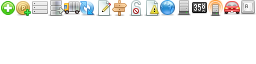
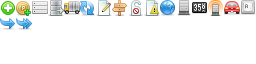
Finished viewing and replying in Message Center.

Changed region(s): [[0.0, 0.2812, 0.125, 0.4688]]

diff --git a/core/admin/css/main.css b/core/admin/css/main.css
@@ -46,6 +46,7 @@
 	h1 .error { background-position: -345px 0px; width: 28px; }
 	h1 .messages { background-position: -483px 0px; width: 26px; }
 	h1 .add_message { background-position: 0px -31px; width: 27px; }
+	h1 .reply_message { background-position: -54px -31px; width: 28px; }
 
 	h2 { color: #444; float: left; font-size: 18px; height: 32px; line-height: 32px; text-shadow: 1px 1px 1px #FFF; font-weight: normal; padding: 5px 0 0 0; }
 	h2 small { font-size: 13px; color: #999999; display: inline-block; padding: 0 0 0 10px; }
@@ -359,7 +360,7 @@
 
 /* Table Styles */
 	div.table { border: 1px solid #CCC; border-radius: 5px; box-shadow: 0px 0px 3px #CCC; margin: 0 0 25px 0; overflow: hidden; }
-	.table > summary { background: url(../images/top-gradient.png) repeat-x; border-radius: 5px 5px 0 0; height: 37px; line-height: 37px; padding: 0 20px; }
+	.table > summary, .form_container > summary { background: url(../images/top-gradient.png) repeat-x; border-radius: 5px 5px 0 0; height: 37px; line-height: 37px; padding: 0 20px; }
 	.table > summary input { float: left; margin: 5px 25px 0 -10px; }
 	.table > summary p { color: #666; font-size: 12px; line-height: 37px; text-shadow: 1px 1px 1px #FFF; }
 	.table > summary.taller { height: 45px; line-height: 45px; }
@@ -539,6 +540,12 @@
 	.image_list li a.image:hover { background: #DDD; }
 	.image_list li a.image img { max-width: 108px; }
 	.image_list li a:last-child { margin: 0; }
+	
+/* Message Center */
+	.alert .message_from { float: left; width: 220px; }
+	.alert .message_to { float: left; width: 678px; }
+	.alert .message_from label, .alert .message_to label { font-size: 10px; text-transform: uppercase; display: block; color: #999; text-shadow: 0px -1px 1px rgba(255,255,255,0.75); margin: 0 0 5px 0; }
+	.alert .message_from p, .alert .message_to p { font-size: 13px; color: #666; margin: 0; line-height: 13px; }
 
 /* Users Stuff */
 	
@@ -826,6 +833,8 @@
 	.icon_small_broadcast { background-position: -208px 0px; }
 	.icon_small_car { background-position: -224px 0px; }
 	.icon_small_key { background-position: -240px 0px; }
+	.icon_small_reply { background-position: 0px -16px; }
+	.icon_small_reply_all { background-position: -16px -16px; }
 
 /* Developer Icons */
 	.icon_developer_templates { background: url(../images/developer-icons-sprite.png) no-repeat 0px 0px; height: 32px; width: 32px; display: inline-block; }
@@ -907,7 +916,7 @@
 	.multi_widget { border: 1px solid #CCC; border-radius: 2px; padding: 0; }
 	.multi_widget footer { padding: 20px; border-top: none; }
 	.multi_widget footer a { float: right; height: 30px; line-height: 30px; border-radius: 2px; }
-	.multi_widget footer a .icon_small { height: 30px; margin-top: 6px; }
+	.multi_widget footer a .icon_small { height: 16px; margin-top: 6px; }
 	.multi_widget li { padding: 0px 10px; border-bottom: 1px solid #DDD; overflow: hidden; }
 	.multi_widget li p { line-height: 35px; height: 35px; float: left; font-size: 14px; margin: 0; }
 	.multi_widget li a { float: right; margin: 0 0 0 10px; }

diff --git a/core/admin/modules/dashboard/messages/reply.php b/core/admin/modules/dashboard/messages/reply.php
@@ -1,14 +1,15 @@
 <?
+	// Make sure the user has the right to see this message
+	$parent = sqlfetch(sqlquery("SELECT * FROM bigtree_messages WHERE id = '".mysql_real_escape_string(end($path))."'"));
+	if ($parent["sender"] != $admin->ID && strpos("|".$admin->ID."|",$parent["recipients"]) === false) {
+		$admin->stop("This message was not sent by you, or to you.");
+	}
+	
 	$users = array();
 	$q = sqlquery("SELECT id,name FROM bigtree_users ORDER BY name");
 	while ($f = sqlfetch($q)) {
-		$users[$f["id"]] = $f;
+		$users[$f["id"]] = $f["name"];
 	}
-	
-	$send_to = array();
-	$subject = "";
-	$message = "";
-	$error = false;
 	
 	if ($_SESSION["saved_message"]) {
 		$send_to = $_SESSION["saved_message"]["send_to"];
@@ -16,12 +17,31 @@
 		$message = htmlspecialchars($_SESSION["saved_message"]["message"]);
 		$error = true;
 		unset($_SESSION["saved_message"]);
+	} else {
+		$subject = "RE: ".$parent["subject"];
+		$message = "";
+		$error = false;
+		
+		// Generate the recipient names from the parent if we're replying to all, otherwise, just use the sender.
+		$send_to = array();
+		if ($reply_all) {
+			$p_recipients = explode("|",trim($parent["recipients"],"|"));
+			$p_recipients[] = $parent["sender"];
+			foreach ($p_recipients as $r) {
+				if ($r != $admin->ID) {
+					$send_to[] = $r;
+				}
+			}
+		} else {
+			$send_to[] = $parent["sender"];
+		}
 	}
 ?>
-<h1><span class="add_message"></span>New Message</h1>
+<h1><span class="reply_message"></span>Reply To Message</h1>
 <? include "_nav.php" ?>
 <div class="form_container">
-	<form method="post" action="../create/" id="message_form">
+	<form method="post" action="<?=$aroot?>dashboard/messages/create-reply/" id="message_form">
+		<input type="hidden" name="response_to" value="<?=htmlspecialchars(end($path))?>" />
 		<section>
 			<p<? if (!$error) { ?> style="display: none;"<? } ?> class="error_message">Errors found! Please fix the highlighted fields before submitting.</p>
 			<fieldset id="send_to"<? if ($error && !count($send_to)) { ?> class="form_error"<? } ?>>
@@ -47,10 +67,10 @@
 					<footer>
 						<select>
 							<?
-								foreach ($users as $item) {
+								foreach ($users as $id => $name) {
 									if ($item["id"] != $admin->ID) {
 							?>
-							<option value="<?=$item["id"]?>"><?=htmlspecialchars($item["name"])?></option>
+							<option value="<?=$id?>"><?=htmlspecialchars($name)?></option>
 							<?
 									}
 								}

diff --git a/core/admin/modules/dashboard/messages/create-reply.php b/core/admin/modules/dashboard/messages/create-reply.php
@@ -1,0 +1,35 @@
+<?
+	if (!count($_POST["send_to"]) || !$_POST["subject"] || !$_POST["message"]) {
+		$_SESSION["saved_message"] = $_POST;
+		if (strpos("reply-all",$_SERVER["HTTP_REFERER"])) {
+			header("Location: ../reply-all/".$_POST["response_to"]."/");
+		} else {
+			header("Location: ../reply/".$_POST["response_to"]."/");
+		}
+		die();
+	}
+	
+	// Make sure the user has the right to see this message
+	$parent = sqlfetch(sqlquery("SELECT * FROM bigtree_messages WHERE id = '".mysql_real_escape_string($_POST["response_to"])."'"));
+	if ($parent["sender"] != $admin->ID && strpos("|".$admin->ID."|",$parent["recipients"]) === false) {
+		$admin->stop("This message was not sent by you, or to you.");
+	}
+	
+	// Clear tags out of the subject, sanitize the message body of XSS attacks.
+	$subject = mysql_real_escape_string(htmlspecialchars(strip_tags($_POST["subject"])));
+	$message = mysql_real_escape_string(htmlclean($_POST["message"]));
+	$response_to = mysql_real_escape_string($_POST["response_to"]);
+	
+	// We build the send_to field this way so that we don't have to create a second table of recipients.  Is it faster database wise using a LIKE over a JOIN? I don't know, but it makes for one less table.
+	$send_to = "|";
+	foreach ($_POST["send_to"] as $r) {
+		// Make sure they actually put in a number and didn't try to screw with the $_POST
+		$send_to .= intval($r)."|";
+	}
+	
+	sqlquery("INSERT INTO bigtree_messages (`sender`,`recipients`,`subject`,`message`,`response_to`,`date`) VALUES ('".$admin->ID."','$send_to','$subject','$message','$response_to',NOW())");
+	
+	$admin->growl("Message Center","Replied To Message");
+	header("Location: ../");
+	die();
+?>

diff --git a/core/admin/modules/dashboard/messages/view.php b/core/admin/modules/dashboard/messages/view.php
@@ -1,0 +1,39 @@
+<?
+	// Make sure the user has the right to see this message
+	$message = sqlfetch(sqlquery("SELECT * FROM bigtree_messages WHERE id = '".mysql_real_escape_string(end($path))."'"));
+	if ($message["sender"] != $admin->ID && strpos("|".$admin->ID."|",$message["recipients"]) === false) {
+		$admin->stop("This message was not sent by you, or to you.");
+	}
+	
+	// Get the list of recipients to determine the names and also to tell _nav whether to show "Reply All"
+	$recipients = explode("|",trim($message["recipients"],"|"));
+	$recipient_names = array();
+	foreach ($recipients as $r) {
+		$u = sqlfetch(sqlquery("SELECT name FROM bigtree_users WHERE id = '".mysql_real_escape_string($r)."'"));
+		$recipient_names[] = $u["name"];
+	}
+	
+	// Get the sender's name
+	$u = sqlfetch(sqlquery("SELECT name FROM bigtree_users WHERE id = '".mysql_real_escape_string($message["sender"])."'"));
+	$sender_name = $u["name"];
+?>
+<h1><span class="messages"></span>Message Center</h1>
+<? include "_nav.php" ?>
+<div class="form_container">
+	<summary>
+		<h2><span class="unread"></span> <?=$message["subject"]?></h2>
+	</summary>
+	<section>
+		<div class="alert">
+			<article class="message_from">
+				<label>From</label>
+				<p><?=$sender_name?></p>
+			</article>
+			<article class="message_to">
+				<label>To</label>
+				<p><?=implode(", ",$recipient_names)?></p>
+			</article>
+		</div>
+		<?=$message["message"]?>
+	</section>
+</div>

diff --git a/core/admin/modules/dashboard/messages/_nav.php b/core/admin/modules/dashboard/messages/_nav.php
@@ -1,4 +1,16 @@
 <nav class="sub">
 	<a href="<?=$aroot?>dashboard/messages/"<? if (end($path) == "messages") { ?> class="active"<? } ?>><span class="icon_small icon_small_list"></span>View Messages</a>
 	<a href="<?=$aroot?>dashboard/messages/new/" <? if (end($path) == "new") { ?> class="active"<? } ?>><span class="icon_small icon_small_add"></span>New Message</a>
+	<?
+		if (is_numeric(end($path))) {
+	?>
+	<a href="<?=$aroot?>dashboard/messages/reply/<?=end($path)?>/"<? if ($path[count($path)-2] == "reply") { ?> class="active"<? } ?>><span class="icon_small icon_small_reply"></span>Reply</a>
+	<?
+			if (count($recipients) > 1) {
+	?>
+	<a href="<?=$aroot?>dashboard/messages/reply-all/<?=end($path)?>/"<? if ($path[count($path)-2] == "reply-all") { ?> class="active"<? } ?>><span class="icon_small icon_small_reply_all"></span>Reply All</a>
+	<?
+			}
+		}
+	?>
 </nav>

diff --git a/core/admin/modules/dashboard/messages/reply-all.php b/core/admin/modules/dashboard/messages/reply-all.php
@@ -1,0 +1,4 @@
+<?
+	$reply_all = true;
+	include bigtree_path("admin/modules/dashboard/messages/reply.php");
+?>
